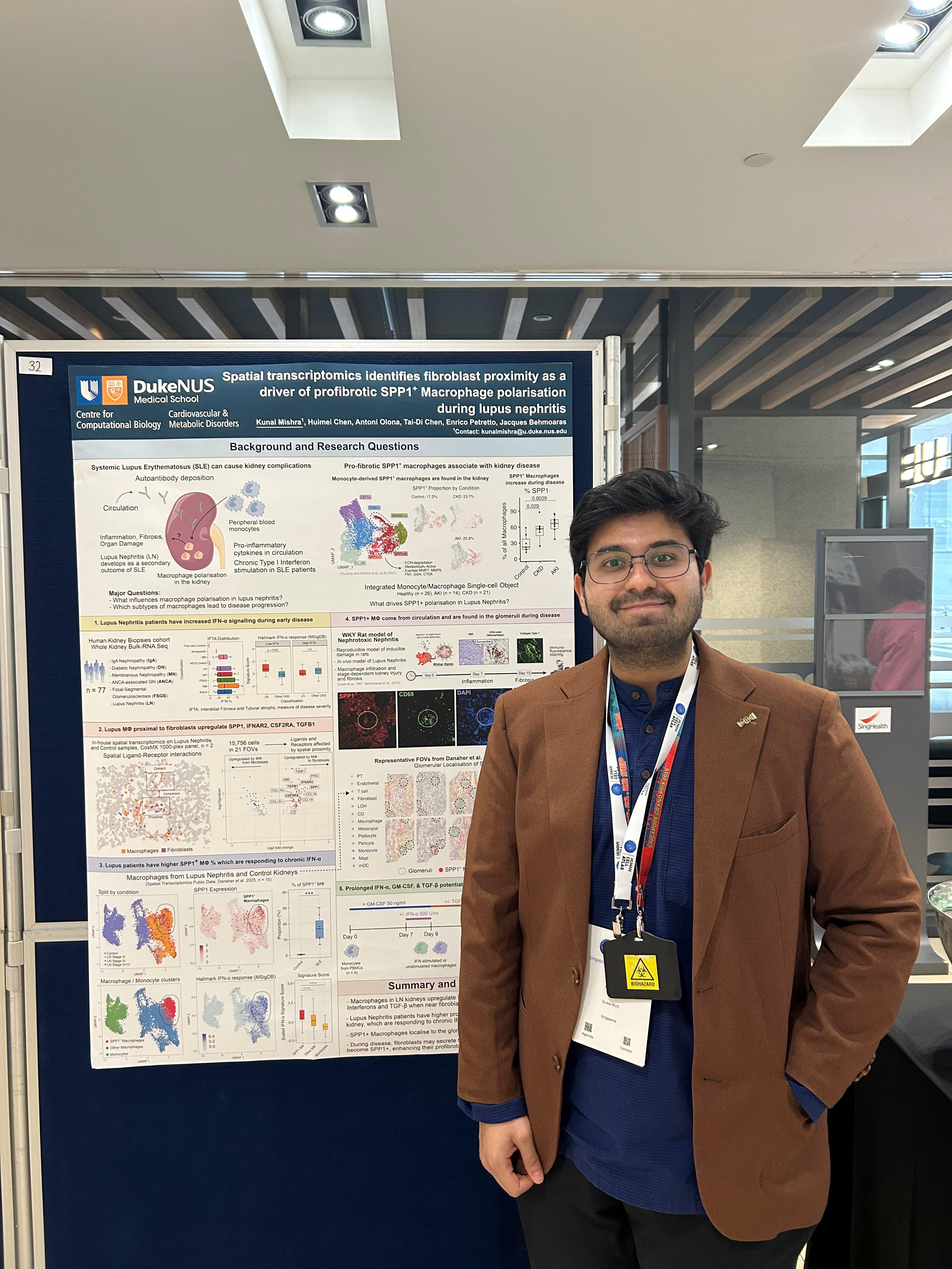
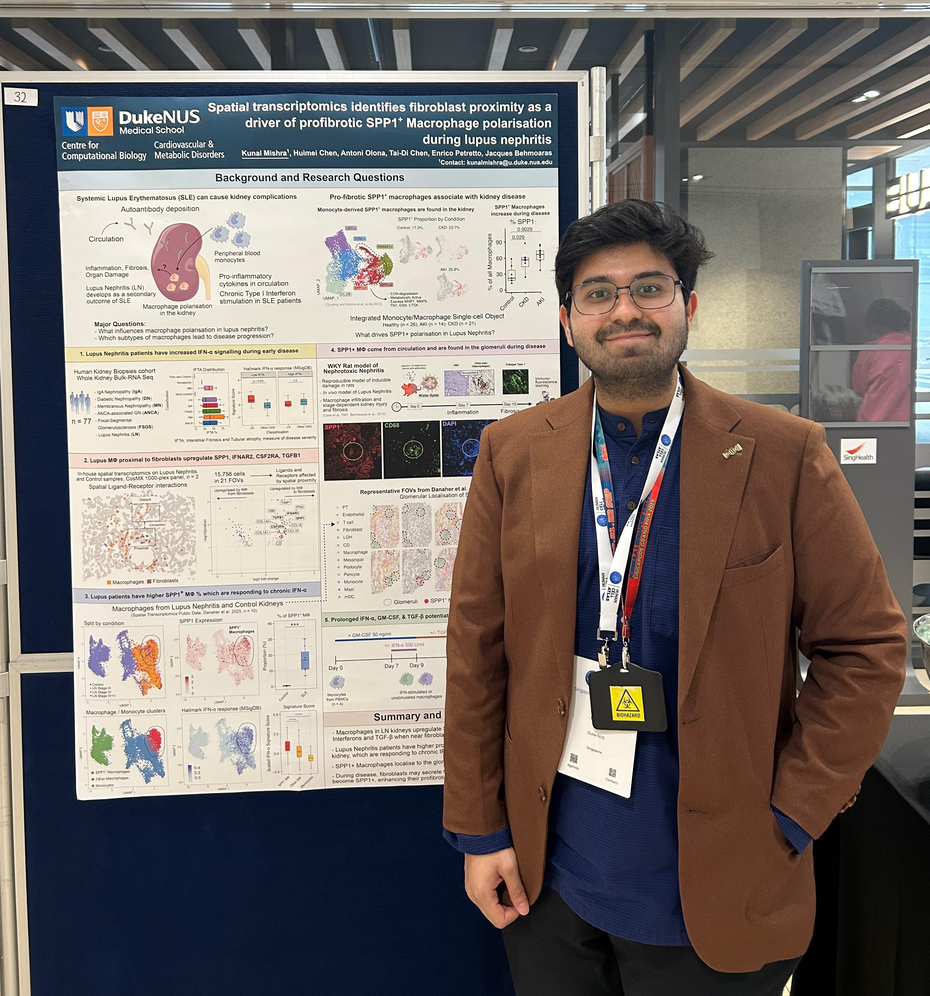
Edited some posts

diff --git a/_posts/2025-03-07-ning-toni-lipid.md b/_posts/2025-03-07-ning-toni-lipid.md
@@ -1,0 +1,10 @@
+---
+title: Ning and Toni present at the 12th International Singapore Lipid Symposium
+image: /images/posts/032024-ning-toni-lipid.jpeg
+# author: john-doe
+tags: conference, talk, kunal, singapore, poster
+---
+
+Ning and Toni presented posters at the 12th edition of ISLS! Great work guys!
+
+![Ning and Toni at ISLS 2024]({{ '/images/posts/032024-ning-toni-lipid.jpeg' | relative_url }})
